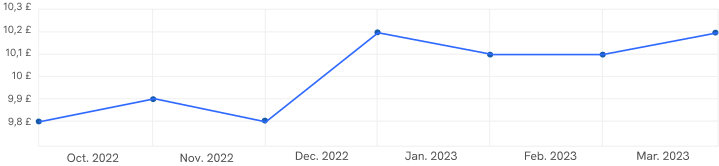
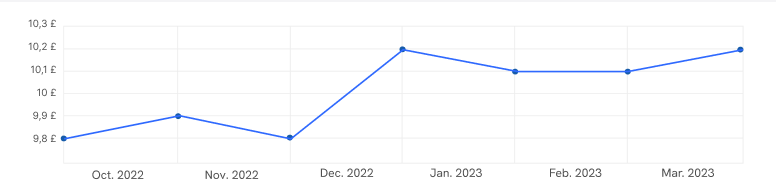
slider

diff --git a/src/pages/dashboardpages/propertydetail.js b/src/pages/dashboardpages/propertydetail.js
@@ -1,5 +1,16 @@
 import Header from "../../component/dashheader";
+import Slider from "react-slick";
+import "slick-carousel/slick/slick.css";
+import "slick-carousel/slick/slick-theme.css";
 function propertydetail() {
+    var settings = {
+        dots: true,
+        infinite: true,
+        speed: 300,
+        slidesToShow: 1,
+        centerMode: true,
+        variableWidth: true
+      };
     return (
       <div className="App">
         <Header /> 
@@ -18,6 +29,7 @@ function propertydetail() {
     <section>
         <div className="container fullw-li">
             <ul className="list-group list-group-horizontal-xl">
+           
                 <li className="list-group-item"><span>£921</span>  Rental income</li>
                 <li className="list-group-item"><span>6.5%</span>  Gross yield</li>
                 <li className="list-group-item"><span>£42.500</span>   Minimun deposit</li>
@@ -28,7 +40,7 @@ function propertydetail() {
                 <li className="list-group-item"><span>£42.500</span>   Minimun deposit</li>
                 <li className="list-group-item"><span>8.5%</span>   Rental growth</li>
                 <li className="list-group-item"><span>3.0%</span>   Cap growth</li>
-                
+            
             </ul>
         </div>
     </section>
@@ -412,7 +424,7 @@ function propertydetail() {
                                         <h3>Monthly income per TANNIT</h3>
                                         <h1>0.05 £</h1>
                                         <p>Cible (Soit 5.53% annuel)</p>
-                                        <img src="assets/images/chart2.png" alt="" />
+                                        <img src="assets/images/chart3.png" alt="" />
                                     </div>
                                 </div>
                                 </div>

diff --git a/src/App.css b/src/App.css
@@ -3965,3 +3965,5 @@ h3.filter-list-heading {
   color:black ;
 
 }
+
+/* last:slick */
